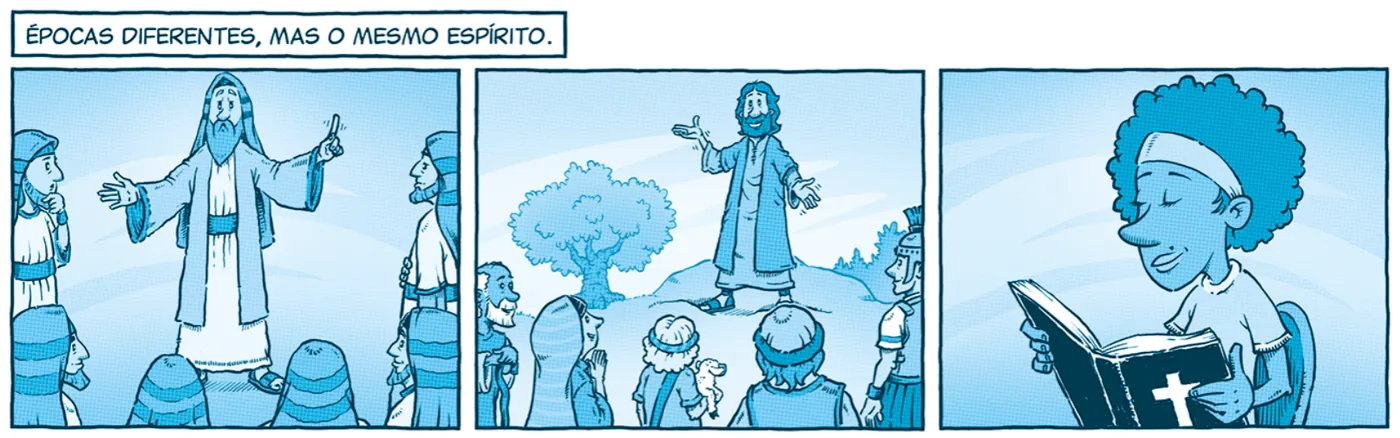
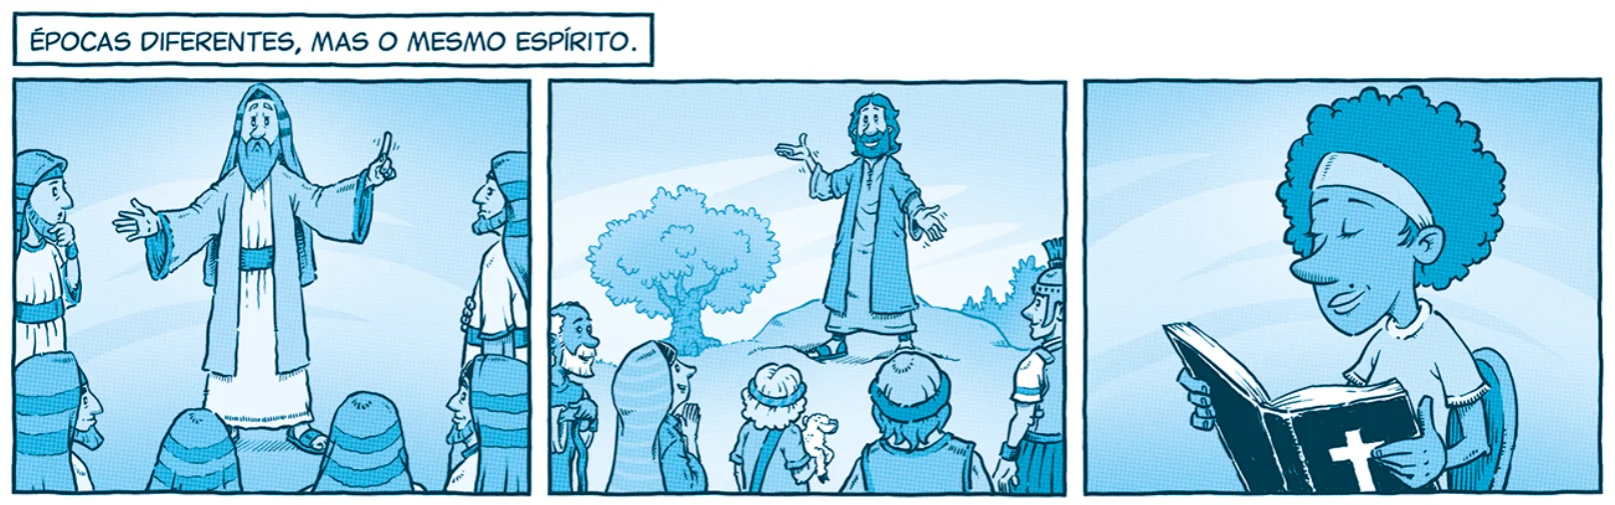
feat: tirinha do sábado quadro a quadro, em resolução cheia
Inteira, a tirinha fica com ~340 px de largura no celular e os balões
ficam ilegíveis. Agora cada uma também é recortada em quadros (detecção
automática pelas calhas brancas, conferida nas 13) e o sábado mostra um
quadro por vez, grande, deslizando para o lado — com setas, indicador
"2/4", zoom por quadro e as faixas de legenda fixas acima/abaixo.
"Ver inteira" volta à tirinha completa.

- imagens re-renderizadas do PDF sem reduzir (antes 1400 px, agora a
  resolução nativa) — quadros a ~520 px, nítidos no celular;
- cada quadro usa o trecho "Nº quadro: ..." da descrição como texto
  alternativo;
- a tirinha inteira só é baixada se o aluno pedir (~230 KB por sábado
  no modo quadro a quadro);
- check-licoes confere se os arquivos dos quadros existem.

diff --git a/src/components.tsx b/src/components.tsx
@@ -636,26 +636,126 @@ export const BottomNav = ({ active, jogador, diaAtual, onHome, onRanking, onEstu
 /* ===== ESTUDO ===== */
 
 /* ===== TIRINHA DO SÁBADO (trilha Jovem) =====
- * A abertura de cada lição dos Jovens é uma tirinha em 3 quadros. Ela entra
- * como imagem (public/tirinhas/) + `descricao` em texto: a descrição é o que
- * garante que nada se perde quando a imagem não carrega (sem internet), quando
- * o celular é pequeno demais para ler os balões, ou para quem usa leitor de
- * tela. As perguntas do sábado são escritas em cima dela.
- *  - toque na imagem: abre grande, com rolagem lateral (tirinha é larga);
- *  - se a imagem falhar, a descrição abre sozinha. */
-export const TirinhaDoDia = ({ imagem }: { imagem: { src: string; alt: string; descricao: string } }) => {
+ * A abertura de cada lição dos Jovens é uma tirinha de 3–4 quadros. Inteira,
+ * ela é larga demais para o celular: com ~340 px de largura os balões ficam
+ * ilegíveis. Por isso ela chega em DOIS formatos:
+ *  - quadro a quadro (padrão): um quadro por vez, grande, deslizando para o
+ *    lado — como se lê uma HQ no celular. As faixas de legenda (`faixa: true`)
+ *    ficam fixas acima/abaixo dos quadros, na posição em que aparecem;
+ *  - a tirinha inteira, a um toque ("Ver inteira"), com zoom e rolagem lateral.
+ * A `descricao` em texto garante que nada se perde quando a imagem não carrega
+ * (sem internet) ou para quem usa leitor de tela; cada quadro usa o trecho
+ * "Nº quadro: ..." dela como texto alternativo. As perguntas do sábado são
+ * escritas em cima da tirinha.
+ *  - se uma imagem falhar, a descrição abre sozinha. */
+type QuadroTirinha = { src: string; faixa?: boolean };
+const urlPublica = (src: string) => `${import.meta.env.BASE_URL || '/'}${String(src || '').replace(/^\/+/, '')}`;
+// "1º quadro: ... 2º quadro: ..." → { 1: '...', 2: '...' }
+const descricaoPorQuadro = (descricao: string) => {
+  const mapa: Record<number, string> = {};
+  const re = /(\d+)º quadro:\s*([\s\S]*?)(?=\s*\d+º quadro:|\s*Ideia central:|$)/g;
+  let m: RegExpExecArray | null;
+  while ((m = re.exec(descricao || ''))) mapa[Number(m[1])] = m[2].trim();
+  return mapa;
+};
+
+export const TirinhaDoDia = ({ imagem }: { imagem: { src: string; alt: string; descricao: string; quadros?: QuadroTirinha[] } }) => {
   const [falhou, setFalhou] = useState(false);
-  const [aberta, setAberta] = useState(false);
-  const src = `${import.meta.env.BASE_URL || '/'}${String(imagem.src || '').replace(/^\/+/, '')}`;
+  const [zoom, setZoom] = useState<{ src: string; alt: string; larga: boolean } | null>(null);
+  const quadros = (imagem.quadros || []).filter(q => q?.src);
+  const temQuadros = quadros.filter(q => !q.faixa).length > 1;
+  const [inteira, setInteira] = useState(!temQuadros);
+  const [atual, setAtual] = useState(0);
+  const trilhoRef = useRef<HTMLDivElement>(null);
+
+  // Faixas de legenda antes do 1º quadro ficam em cima; as demais, embaixo.
+  const iPrimeiro = quadros.findIndex(q => !q.faixa);
+  const faixasTopo = quadros.filter((q, i) => q.faixa && i < iPrimeiro);
+  const faixasBase = quadros.filter((q, i) => q.faixa && i > iPrimeiro);
+  const paineis = quadros.filter(q => !q.faixa);
+  const textos = useMemo(() => descricaoPorQuadro(imagem.descricao), [imagem.descricao]);
+
+  const irPara = (i: number) => {
+    const el = trilhoRef.current;
+    if (!el) return;
+    const alvo = Math.max(0, Math.min(paineis.length - 1, i));
+    el.scrollTo({ left: alvo * el.clientWidth, behavior: 'smooth' });
+  };
+  const aoRolar = () => {
+    const el = trilhoRef.current;
+    if (el && el.clientWidth) setAtual(Math.round(el.scrollLeft / el.clientWidth));
+  };
+
+  // Faixa de legenda larga (uma linha de texto) fica miúda no celular: tocar amplia.
+  const imgFaixa = (q: QuadroTirinha, k: string) => (
+    <button key={k} type="button" onClick={() => setZoom({ src: q.src, alt: '', larga: true })} aria-label="Ampliar a legenda da tirinha"
+      style={{display:'block', width:'100%', padding:0, border:'none', background:'#fff', cursor:'zoom-in'}}>
+      <img src={urlPublica(q.src)} alt="" onError={() => setFalhou(true)}
+        style={{display:'block', maxWidth:'100%', height:'auto', margin:'0 auto'}} />
+    </button>
+  );
+  const botaoSeta = (dir: -1 | 1) => {
+    const desab = dir < 0 ? atual <= 0 : atual >= paineis.length - 1;
+    return (
+      <button type="button" onClick={() => irPara(atual + dir)} disabled={desab} aria-label={dir < 0 ? 'Quadro anterior' : 'Próximo quadro'}
+        style={{position:'absolute', top:'50%', [dir < 0 ? 'left' : 'right']:6, transform:'translateY(-50%)', width:34, height:34, borderRadius:'50%',
+          border:'none', background:'rgba(10,18,48,.55)', color:'#fff', fontSize:18, fontWeight:900, cursor: desab ? 'default' : 'pointer',
+          opacity: desab ? 0 : 1, transition:'opacity .2s', pointerEvents: desab ? 'none' : 'auto'} as any}>{dir < 0 ? '‹' : '›'}</button>
+    );
+  };
+
   return (
     <figure style={{margin:'0 0 20px'}}>
       {!falhou && (
-        <button type="button" onClick={() => setAberta(true)} aria-label="Ampliar a tirinha"
-          style={{display:'block', width:'100%', padding:0, border:'1.5px solid var(--panel-border)', borderRadius:14, overflow:'hidden', background:'#fff', cursor:'zoom-in'}}>
-          <img src={src} alt={imagem.alt} onError={() => setFalhou(true)} style={{display:'block', width:'100%', height:'auto'}} />
-        </button>
+        <div style={{border:'1.5px solid var(--panel-border)', borderRadius:14, overflow:'hidden', background:'#fff'}}>
+          {!inteira && faixasTopo.length > 0 && <div style={{padding:'8px 8px 0'}}>{faixasTopo.map((q, i) => imgFaixa(q, `t${i}`))}</div>}
+          {inteira ? (
+            <button type="button" onClick={() => setZoom({ src: imagem.src, alt: imagem.alt, larga: true })} aria-label="Ampliar a tirinha"
+              style={{display:'block', width:'100%', padding:0, border:'none', background:'#fff', cursor:'zoom-in'}}>
+              <img src={urlPublica(imagem.src)} alt={imagem.alt} onError={() => setFalhou(true)} style={{display:'block', width:'100%', height:'auto'}} />
+            </button>
+          ) : (
+            <div style={{position:'relative'}}>
+              <div ref={trilhoRef} onScroll={aoRolar} className="tirinha-trilho"
+                style={{display:'flex', overflowX:'auto', scrollSnapType:'x mandatory', scrollbarWidth:'none'} as any}>
+                {paineis.map((q, i) => (
+                  <button key={q.src} type="button" aria-label={`Ampliar o quadro ${i + 1}`}
+                    onClick={() => setZoom({ src: q.src, alt: textos[i + 1] || `Quadro ${i + 1} da tirinha`, larga: false })}
+                    style={{flex:'0 0 100%', scrollSnapAlign:'center', padding:'8px', border:'none', background:'#fff', cursor:'zoom-in', display:'flex', alignItems:'center', justifyContent:'center'}}>
+                    <img src={urlPublica(q.src)} alt={textos[i + 1] || `Quadro ${i + 1} da tirinha`} loading={i === 0 ? 'eager' : 'lazy'}
+                      onError={() => setFalhou(true)} style={{display:'block', maxWidth:'100%', maxHeight:'58vh', width:'auto', height:'auto'}} />
+                  </button>
+                ))}
+              </div>
+              {botaoSeta(-1)}
+              {botaoSeta(1)}
+            </div>
+          )}
+          {!inteira && faixasBase.length > 0 && <div style={{padding:'0 8px 8px'}}>{faixasBase.map((q, i) => imgFaixa(q, `b${i}`))}</div>}
+        </div>
       )}
-      {!falhou && <figcaption style={{fontSize:11, color:'var(--mut)', textAlign:'center', marginTop:6}}>🔍 Toque na tirinha para ampliar</figcaption>}
+      {!falhou && (
+        <div style={{display:'flex', alignItems:'center', justifyContent:'space-between', gap:8, marginTop:8}}>
+          {!inteira ? (
+            <div style={{display:'flex', alignItems:'center', gap:6}} aria-label={`Quadro ${atual + 1} de ${paineis.length}`}>
+              {paineis.map((_, i) => (
+                <button key={i} type="button" onClick={() => irPara(i)} aria-label={`Ir ao quadro ${i + 1}`}
+                  style={{width: i === atual ? 20 : 8, height:8, borderRadius:4, border:'none', padding:0, cursor:'pointer',
+                    background: i === atual ? 'var(--gold)' : 'var(--mut)', opacity: i === atual ? 1 : .45, transition:'width .2s'}} />
+              ))}
+              <span style={{fontSize:11, color:'var(--mut)', marginLeft:4}}>{atual + 1}/{paineis.length} · deslize ↔</span>
+            </div>
+          ) : (
+            <span style={{fontSize:11, color:'var(--mut)'}}>🔍 Toque na tirinha para ampliar</span>
+          )}
+          {temQuadros && (
+            <button type="button" className="btn btn-ghost btn-sm" style={{width:'auto', fontSize:12, padding:'4px 10px', minHeight:0}}
+              onClick={() => { setInteira(v => !v); setAtual(0); }}>
+              {inteira ? '🖼 Quadro a quadro' : '🧩 Ver inteira'}
+            </button>
+          )}
+        </div>
+      )}
       <details open={falhou} style={{marginTop:10, background:'var(--panel-bg)', border:'1px solid var(--panel-border)', borderRadius:12, padding:'10px 14px'}}>
         <summary style={{cursor:'pointer', fontWeight:800, fontSize:13, color:'var(--txt2)'}}>📖 {falhou ? 'A tirinha (a imagem não carregou)' : 'Ler a descrição da tirinha'}</summary>
         <div style={{marginTop:10, fontSize:14, lineHeight:1.65, color:'var(--txt2)'}}>
@@ -663,15 +763,16 @@ export const TirinhaDoDia = ({ imagem }: { imagem: { src: string; alt: string; d
           {String(imagem.descricao || '').replace(/\s+(?=(?:\d+º quadro|Ideia central)\b)/g, '\n\n').split('\n\n').filter(Boolean).map((t, i) => <p key={i} style={{margin:'0 0 10px'}}>{t}</p>)}
         </div>
       </details>
-      {aberta && createPortal(
-        <div role="dialog" aria-label="Tirinha ampliada" onClick={() => setAberta(false)}
+      {zoom && createPortal(
+        <div role="dialog" aria-label="Tirinha ampliada" onClick={() => setZoom(null)}
           style={{position:'fixed', inset:0, zIndex:10000, background:'rgba(0,0,0,.92)', display:'flex', flexDirection:'column'}}>
           <div style={{padding:'12px 16px', display:'flex', justifyContent:'space-between', alignItems:'center', color:'#fff', fontSize:13, fontWeight:700}}>
-            <span>↔ Arraste para o lado</span>
-            <button type="button" className="btn btn-ghost btn-sm" style={{width:'auto'}} onClick={() => setAberta(false)}>✕ Fechar</button>
+            <span>{zoom.larga ? '↔ Arraste para o lado' : '🤏 Use dois dedos para aproximar'}</span>
+            <button type="button" className="btn btn-ghost btn-sm" style={{width:'auto'}} onClick={() => setZoom(null)}>✕ Fechar</button>
           </div>
-          <div style={{flex:1, overflow:'auto', display:'flex', alignItems:'center'}} onClick={e => e.stopPropagation()}>
-            <img src={src} alt={imagem.alt} style={{width:'max(900px, 100vw)', maxWidth:'none', height:'auto', background:'#fff'}} />
+          <div style={{flex:1, overflow:'auto', display:'flex', alignItems:'center', justifyContent: zoom.larga ? 'flex-start' : 'center'}} onClick={e => e.stopPropagation()}>
+            <img src={urlPublica(zoom.src)} alt={zoom.alt}
+              style={zoom.larga ? {width:'max(900px, 100vw)', maxWidth:'none', height:'auto', background:'#fff'} : {maxWidth:'100vw', maxHeight:'88vh', height:'auto', background:'#fff'}} />
           </div>
         </div>,
         document.body

diff --git a/src/index.css b/src/index.css
@@ -1383,3 +1383,6 @@ body::before{content:'';position:fixed;inset:0;z-index:-1;pointer-events:none;ba
 .esp-flash-ok{background:rgba(79,184,92,.22)}
 .esp-flash-erro{background:rgba(227,28,61,.2);animation:shake .4s}
 .esp-relampago-item{cursor:default}
+
+/* Tirinha quadro a quadro: sem barra de rolagem visível no trilho */
+.tirinha-trilho::-webkit-scrollbar{display:none}
